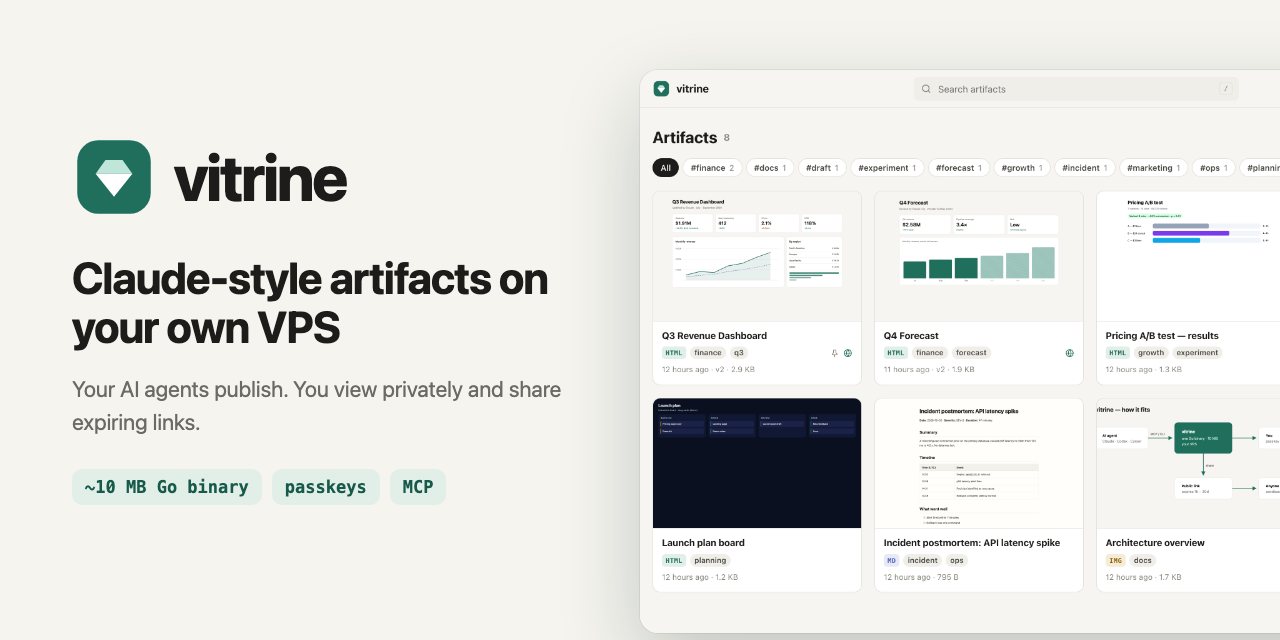
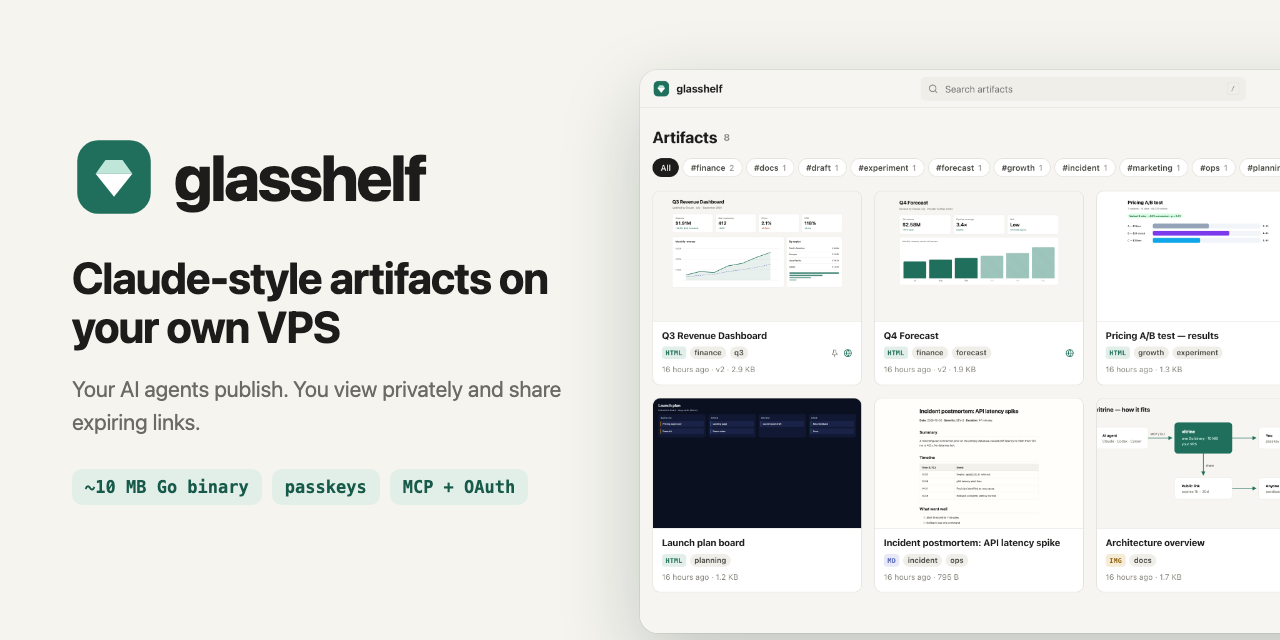
docs: new name in screenshots, demo and social preview; README features
Re-shot every README image and the demo GIF with the glasshelf name and
the new share drawer, and refreshed the social preview. The README now
covers comments, OAuth connectors, password and view-limited links,
webhooks, the Workers edition and the Tailscale build.

diff --git a/README.md b/README.md
@@ -28,16 +28,22 @@ link on someone else's servers.
 If you already rent a VPS, Glasshelf gives those artifacts a home you own:
 
 - **Private by default.** Everything needs your passkey. Nothing is public until you create a
-  link, and every public link **expires** (1 hour to 30 days) and can be revoked.
+  link, and every public link **expires** (1 hour to 30 days), can be revoked, and can have a
+  **password** and a **view limit**. Link previews in Slack or Discord never use up a view.
 - **Made for agents.** A built-in **MCP server**, a CLI and an installable **agent skill** let
   Claude Code, Codex, Cursor or any MCP client publish and update artifacts. They get back a
-  private URL to give you.
+  private URL to give you. claude.ai and ChatGPT connect as remote connectors over **OAuth**.
+- **Review loop.** Select text in an artifact, leave a comment, tell your agent to "fix the
+  comments": it reads them over MCP, publishes v2 and resolves them. Restore any old version.
 - **Feels like Claude's artifact viewer.** Full-bleed sandboxed viewer, version history, and
   **live reload**: when the agent publishes v2, your open tab updates by itself.
 - **Your style, everywhere.** Agents read your `design.md` before writing, so everything they
   publish matches your look. The app UI is themeable too, and your AI can restyle it for you.
-- **Tiny.** A single static binary with automatic HTTPS. It is happy on a 1 vCPU / 512 MB box,
-  a Raspberry Pi, or a free-tier VM.
+- **Tiny, and free to run.** A single static binary with automatic HTTPS. It is happy on a
+  1 vCPU / 512 MB box or a Raspberry Pi. No server at all? Deploy the **Cloudflare Workers
+  edition** on the free plan, or run `glasshelf-ts` at home with Tailscale built in.
+- **Tells you.** Webhooks to Slack, Discord or ntfy when an agent publishes or someone opens
+  your link.
 
 ## Screenshots
 
@@ -171,7 +177,8 @@ Report vulnerabilities privately; see [SECURITY.md](SECURITY.md).
 |---|---|---|---|
 | Runs on your server | ✅ | ❌ | ✅ |
 | Private by default | ✅ passkey | ❌ (publish = public) | ❌ |
-| Expiring, revocable links | ✅ | ❌ | DIY |
+| Expiring, revocable links | ✅ + password, view limit | ❌ | DIY |
+| Review comments the agent fixes | ✅ | ✅ (Claude Code) | ❌ |
 | Any agent can publish (MCP / CLI / skill) | ✅ | Claude only | DIY |
 | Versions + live reload | ✅ | ✅ | ❌ |
 | Sandboxed, separate content origin | ✅ | ✅ | ❌ |
@@ -193,10 +200,13 @@ Free or a Google Cloud `e2-micro`. See [docs/deploy.md](docs/deploy.md#free-host
 
 ## Roadmap
 
+- [x] Review comments that go back to the agent
+- [x] Remote MCP over OAuth (claude.ai, ChatGPT connectors)
+- [x] Password-protected and view-limited share links
+- [x] Cloudflare Workers edition and a Tailscale build
 - [ ] Zip upload and folder upload from the browser
 - [ ] Full-text search inside artifacts
 - [ ] Optional client-side encryption for share links
-- [ ] Per-artifact comments
 - [ ] Read-only collaborators
 
 ## Contributing
